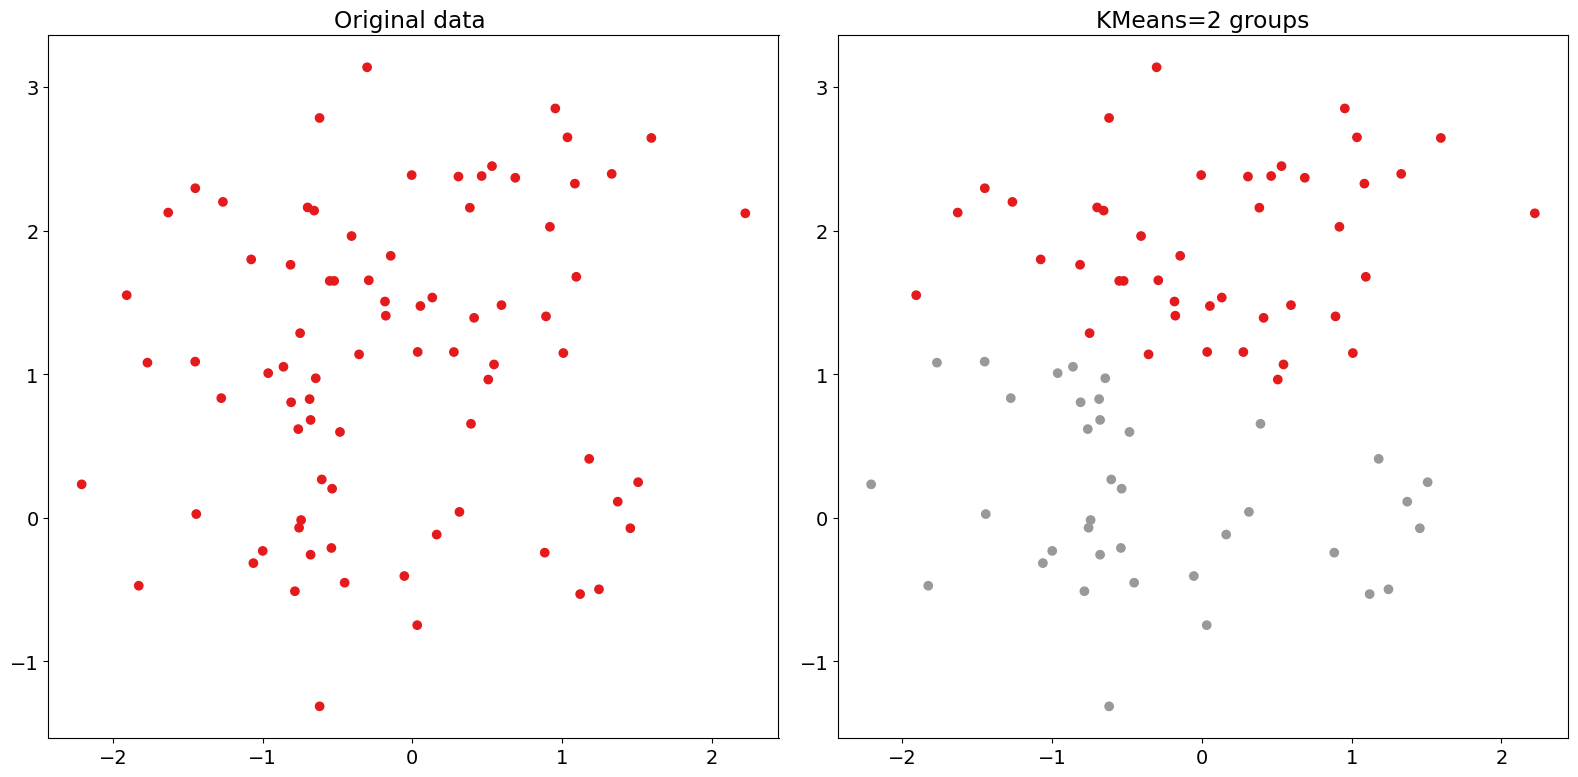
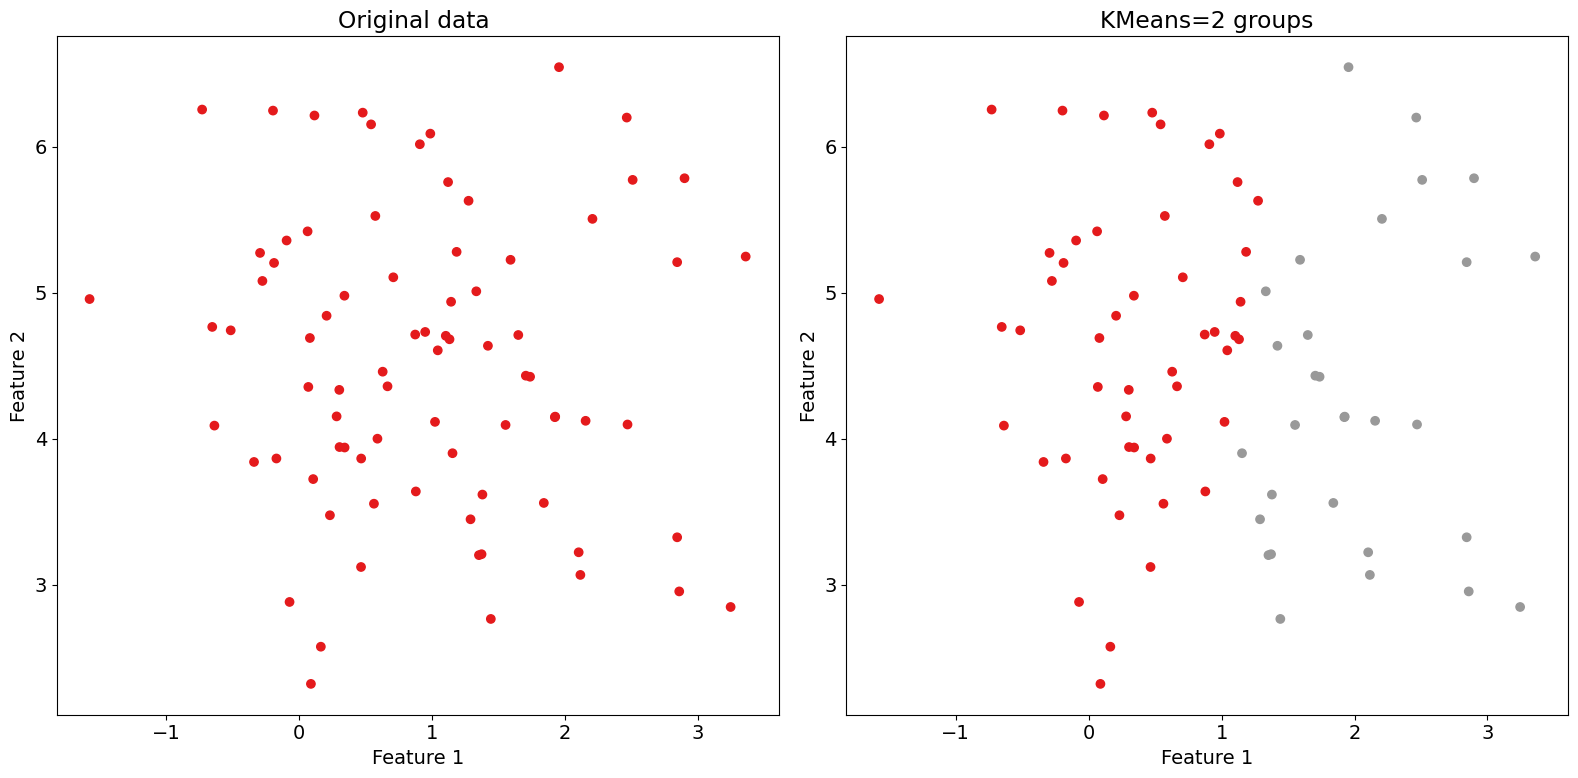
Fix random seeds and axis labels flagged in the report's known limitations
- Fix random_state / np.random.seed in 01_kmeans_blobs_demo.py,
  02_kmeans_iris.py and 01_knn_manual_shuffle_split.py so results are
  reproducible; add n_init=10 to match the other K-Means scripts
- Correct the y-axis label of 06_fisher_manual_histogram.py to Frequency
- Add axis labels to the subplots of 02_kmeans_iris.py and the blobs demo
- Update report sections 4, 5-1, 5-2, 6-6 to the new results and remove
  the three resolved known limitations

diff --git a/03_kmeans_clustering/02_kmeans_iris.py b/03_kmeans_clustering/02_kmeans_iris.py
@@ -33,7 +33,9 @@ dx = iris_dataset['data']
 dy = iris_dataset['target']
 # Use KMeans to find n clusters in the data
 # 用 KMeans 在資料中找出 n 個分組
-kmeans = KMeans(n_clusters=n1)
+# Fixed random_state so every run gives the same result
+# 固定 random_state，讓每次執行結果相同
+kmeans = KMeans(n_clusters=n1, n_init=10, random_state=0)
 kmeans.fit(dx)
 
 # Predict the new cluster labels
@@ -48,15 +50,19 @@ new_dy = kmeans.predict(dx)
 # 畫出原始的群資料
 
 plt.rcParams['font.size'] = 8
-plt.figure(figsize=(10,5))
+plt.figure(figsize=(10,7))
 
 plt.subplot(221)  # 2x2 grid, position 1 / 2 列 2 欄，目前位置為 1
 plt.title('Original Sepal length VS Sepal width')
 plt.scatter(dx.T[0], dx.T[1], c=dy, cmap=plt.cm.Set1)
+plt.xlabel('sepal length (cm)')
+plt.ylabel('sepal width (cm)')
 
 plt.subplot(222)  # 2x2 grid, position 2 / 2 列 2 欄，目前位置為 2
 plt.title('Original Sepal length VS Petal length')
 plt.scatter(dx.T[0], dx.T[2], c=dy, cmap=plt.cm.Set1)
+plt.xlabel('sepal length (cm)')
+plt.ylabel('petal length (cm)')
 
 
 # Plot the data colored by the n KMeans clusters
@@ -65,10 +71,14 @@ n1 = str(n1)
 plt.subplot(223)
 plt.title(n1 + ' groups Sepal length VS Sepal width')
 plt.scatter(dx.T[0], dx.T[1], c=new_dy, cmap=plt.cm.Set1)
+plt.xlabel('sepal length (cm)')
+plt.ylabel('sepal width (cm)')
 
 plt.subplot(224)
 plt.title(n1 + ' groups Sepal length VS Petal length')
 plt.scatter(dx.T[0], dx.T[2], c=new_dy, cmap=plt.cm.Set1)
+plt.xlabel('sepal length (cm)')
+plt.ylabel('petal length (cm)')
 
 
 

diff --git a/03_kmeans_clustering/01_kmeans_blobs_demo.py b/03_kmeans_clustering/01_kmeans_blobs_demo.py
@@ -21,11 +21,13 @@ print('將資料分為' ,n1,'群')
 # Generate a samples with b features in c groups (dy is the original label)
 # 隨機產生 c 組、b 個特徵的資料共 a 筆 (dy 即原始目標值 label)
 # dx, dy = make_blobs(n_samples=a, n_features=b, centers=c, shuffle='True')
-dx, dy = make_blobs(n_samples=80, n_features=2, centers=1, shuffle=True)
+# Fixed random_state so every run gives the same result
+# 固定 random_state，讓每次執行結果相同
+dx, dy = make_blobs(n_samples=80, n_features=2, centers=1, shuffle=True, random_state=0)
 
 # Use KMeans to find n clusters in the data
 # 用 KMeans 在資料中找出 n 個分組
-kmeans = KMeans(n_clusters=n1)
+kmeans = KMeans(n_clusters=n1, n_init=10, random_state=0)
 kmeans.fit(dx)
 
 # Predict the new cluster labels
@@ -38,6 +40,8 @@ plt.figure(figsize=(16, 8))
 # 畫出原始的群資料
 plt.subplot(121)
 plt.title('Original data ')
+plt.xlabel('Feature 1')
+plt.ylabel('Feature 2')
 plt.scatter(dx.T[0], dx.T[1], c=dy, cmap=plt.cm.Set1)
 
 # Plot the data colored by the n KMeans clusters
@@ -45,6 +49,8 @@ plt.scatter(dx.T[0], dx.T[1], c=dy, cmap=plt.cm.Set1)
 n1 = str(n1)
 plt.subplot(122)
 plt.title('KMeans=' + n1 + ' groups')
+plt.xlabel('Feature 1')
+plt.ylabel('Feature 2')
 plt.scatter(dx.T[0], dx.T[1], c=new_dy, cmap=plt.cm.Set1)
 
 # Show the figure

diff --git a/02_knn_classification/01_knn_manual_shuffle_split.py b/02_knn_classification/01_knn_manual_shuffle_split.py
@@ -19,8 +19,9 @@ Y = iris ['target']
 # Original order
 # 原始順序
 index = np.arange(150)
-# Shuffle randomly
-# 亂數打亂
+# Shuffle randomly, with a fixed seed so every run gives the same split
+# 亂數打亂，固定種子讓每次執行的切分都相同
+np.random.seed(0)
 np.random.shuffle(index)
 # The first 100 shuffled samples train the KNN, the last 50 test the model
 # 打亂後的前 100 筆用於 KNN 訓練，後 50 筆用於模型測試

diff --git a/04_fisher_lda/06_fisher_manual_histogram.py b/04_fisher_lda/06_fisher_manual_histogram.py
@@ -71,7 +71,7 @@ for i in range(3):
     plt.hist(x_fisher[y == i, 0], density=False, color='white',edgecolor = colors[i], cumulative = False, label = labels[i])
 
 plt.xlabel('Fisher Feature One')
-plt.ylabel('Fisher Feature Two')
+plt.ylabel('Frequency')
 plt.title('Fisher Features - Iris Dataset')
 plt.legend()
 

diff --git a/docs/Report.md b/docs/Report.md
@@ -110,7 +110,7 @@ Iris 資料集共 150 筆樣本，分為三個品種，每種 50 筆：
 
 | 程式 | 切分方式 | 結果 |
 |---|---|---|
-| `02_knn_classification/01_knn_manual_shuffle_split.py` | 手動亂數打亂，100 筆訓練 / 50 筆測試，k = 5 | 每次執行結果不同；本次 50 筆中錯 2 筆（約 96%），兩筆都是 versicolor 被誤判為 virginica |
+| `02_knn_classification/01_knn_manual_shuffle_split.py` | 手動亂數打亂（固定種子 0），100 筆訓練 / 50 筆測試，k = 5 | 50 筆中錯 2 筆（96%），兩筆都是 versicolor 被誤判為 virginica |
 | `02_knn_classification/02_knn_train_test_split.py` | `train_test_split`，`random_state=0`，k = 5 | 準確率 **0.98**；50 筆中錯 1 筆，是 versicolor 被誤判為 virginica |
 
 **解釋**
@@ -175,14 +175,14 @@ Iris 資料集共 150 筆樣本，分為三個品種，每種 50 筆：
 ![K-Means blobs 示範](figures/01_kmeans_blobs_demo_1.png)
 
 **座標軸**
-- 左右兩張子圖的 X 軸 = `make_blobs` 產生的第 1 個特徵，Y 軸 = 第 2 個特徵。這是人工資料，沒有單位與實際意義。
+- 左右兩張子圖的 X 軸 = Feature 1，Y 軸 = Feature 2，是 `make_blobs` 產生的兩個特徵。這是人工資料，沒有單位與實際意義。
 - 左圖顏色 = 產生資料時的原始標籤；右圖顏色 = K-Means 分出的群。
 
 **觀察與解釋**
 - 資料以 `centers=1` 產生，80 個點其實都來自同一群，所以左圖全部是同一個顏色。
-- 右圖中，K-Means 仍然依照 `n_clusters=2` 把資料切成兩群（本次約略是上半部與下半部）。
+- 右圖中，K-Means 仍然依照 `n_clusters=2` 把資料切成兩群，大約以 Feature 1 ≈ 1.3 為界分成左右兩半。
 - 這說明 **K-Means 一定會切出 k 群，不會判斷資料是否真的有 k 群**，因此 k 必須另外決定，例如用第 5-3 節的手肘法。
-- 程式沒有固定亂數種子，每次執行的資料點與切法都不同。
+- 程式固定 `random_state=0`，每次執行的資料點與切法都相同。若拿掉種子，每次產生的資料不同，切開的方向也會跟著改變，但一定還是切成 2 群。
 
 ### 圖 5-2　Iris K-Means 分群（k = 8）與原始標籤對照
 
@@ -202,10 +202,14 @@ Iris 資料集共 150 筆樣本，分為三個品種，每種 50 筆：
 上排配色：紅 = setosa、橘 = versicolor、灰 = virginica。下排 8 種顏色只是群編號，與上排顏色沒有對應關係。
 
 **觀察與解釋**
-- 程式設定 `n1 = 8`，比實際的 3 個品種多，因此每個品種都被切成好幾群。例如右下圖中，setosa（右上圖左下角那團）被分成藍、黃等數群。
+- 程式設定 `n1 = 8`，比實際的 3 個品種多，因此每個品種都被切成好幾群：
+  - **setosa**：依花萼長度切成 2 群，黃色 22 筆（4.3–5.0 cm）、藍色 28 筆。
+  - **versicolor**：主要分成 2 群（23、20 筆），另有 4 筆花萼特別短的樣本自成灰色小群。
+  - **virginica**：切成 3 群（22、12、15 筆），其中花萼最長的 12 筆是紫色那群。
+- 8 群中只有 2 群混了不同品種，合計 4 筆，所以每一群幾乎都只含單一品種。k 太大時，K-Means 會把同一品種內部再細分，而不是把不同品種混在一起。
 - K-Means 用 4 個特徵計算距離，但圖只畫出其中 2 個，所以有些顏色在圖上看起來交錯，在 4 維空間中其實是分開的。
 - 右欄（花萼長度 vs 花瓣長度）比左欄更容易看出群的結構，因為花瓣長度的鑑別力較高。
-- 程式沒有固定亂數種子，每次執行的群編號與切法都會不同。
+- 程式固定 `random_state=0` 並用 `n_init=10` 跑 10 次取最佳結果，每次執行結果相同。
 
 ### 圖 5-3　手肘法（4 個特徵）
 
@@ -301,7 +305,7 @@ Iris 資料集共 150 筆樣本，分為三個品種，每種 50 筆：
 
 整理圖 5-1 到 5-6 的結果：
 
-- **初始中心點會影響結果。** 沒有固定亂數種子的程式（圖 5-1、5-2）每次執行，邊界與極值附近的點常被分到不同群；固定 `random_state` 並用 `n_init=10` 跑多次後（圖 5-5、5-6），結果穩定且可重現。
+- **初始中心點會影響結果。** 如果不固定亂數種子，每次執行時邊界與極值附近的點常被分到不同群。本專案所有 K-Means 程式都固定 `random_state=0`，並用 `n_init=10` 以不同初始中心跑 10 次、取 SSE 最小的結果，因此結果穩定且可重現。
 - **特徵的鑑別力決定分群品質。** 同樣 k = 3，花瓣特徵純度 96%，花萼特徵 82%，使用全部 4 個特徵則為 89.3%。加入鑑別力差的花萼特徵，反而會拉低純度。
 - **極值的影響比預期小。** K-Means 以平均值作為中心，理論上容易被極值拉偏；但 Iris 的極值不多，k = 3 時花瓣分群的 6 個錯誤都在 versicolor 與 virginica 的交界，不是遠離群體的極值造成的。
 - **最佳 k 要結合多種方法判斷。** 手肘法（k = 2–3）與輪廓分析（k = 2）都沒有直接得到 3。若事先知道類別數，應以實際需求為準；若不知道，k = 2 是資料本身最明顯的結構。
@@ -407,7 +411,7 @@ Iris 有 3 類，所以最多只能得到 3 − 1 = 2 個判別軸：
 
 **座標軸**
 - X 軸 = Fisher Feature One：用 numpy 手動計算 inv(Sw) · Sb 的最大特徵向量，把資料投影上去後再取負值（無單位）。
-- Y 軸 = 每個區間的樣本數。**注意：圖上的 Y 軸標籤寫「Fisher Feature Two」，這是錯的，實際上是次數。**
+- Y 軸 = Frequency：落在該區間的樣本數。
 - 空心長條顏色：藍 = Setosa、紅 = Versicolor、綠 = Virginica。
 
 **觀察與解釋**
@@ -612,9 +616,6 @@ PC1 主要由花瓣長度構成，因為花瓣長度的數值範圍最大（1–
 
 ## 10. 已知限制
 
-- **部分結果每次執行都不同。** `01_kmeans_blobs_demo.py`、`02_kmeans_iris.py`、`01_knn_manual_shuffle_split.py` 沒有固定亂數種子，重新執行後的圖與數字會與本報告不同。
-- **`06_fisher_manual_histogram.py` 的 Y 軸標籤有誤。** 標籤寫「Fisher Feature Two」，實際上是次數 (Frequency)。
-- **`02_kmeans_iris.py` 的子圖沒有軸標籤。** 軸的意義請參考第 5-2 節的表格。
 - **第 6 節 LDA 的 98% 是在全部 150 筆資料上訓練並評估的。** 改用 10-fold 交叉驗證後（第 7 節）仍為 98%，表示 LDA 在 Iris 上沒有過擬合。
 - **決策邊界圖只用 2 個特徵。** 第 9 節為了能畫在平面上只用花瓣長度與寬度，準確率與用 4 個特徵的結果（第 4、7 節）不能直接比較。
 - **純度不是分群的標準評估指標。** 第 5-5 節的純度需要用到真實標籤，k 越大通常越高（極端情況下每點一群時為 100%），只適合在相同 k 之下比較不同特徵。

diff --git a/Readme.md b/Readme.md
@@ -41,7 +41,7 @@ iris-ml-analysis/
 
 | 程式 | 功能 | 輸出 |
 |---|---|---|
-| `01_knn_manual_shuffle_split.py` | 用 numpy 手動打亂資料，前 100 筆訓練、後 50 筆測試，以 k=5 的 KNN 預測並印出預測值與實際值 | 文字 (每次結果不同) |
+| `01_knn_manual_shuffle_split.py` | 用 numpy 手動打亂資料，前 100 筆訓練、後 50 筆測試，以 k=5 的 KNN 預測並印出預測值與實際值 (固定亂數種子) | 文字 |
 | `02_knn_train_test_split.py` | 用 `train_test_split` (random_state=0) 切分，以 KNN 預測並計算準確率 (0.98) | 文字 |
 | `03_knn_cross_validation.py` | 以重複分層 10-fold 交叉驗證 (10 折 × 10 次) 比較 k=1–30 的訓練與驗證準確率，找出最佳 k (17) 並觀察過擬合/欠擬合 | 文字 + 1 張圖 |
 
@@ -51,8 +51,8 @@ iris-ml-analysis/
 
 | 程式 | 功能 | 輸出 |
 |---|---|---|
-| `01_kmeans_blobs_demo.py` | 以 `make_blobs` 產生單一群的隨機資料，示範 K-Means 仍會切成 k 群 | 1 張圖 (每次不同) |
-| `02_kmeans_iris.py` | 對 Iris 做 K-Means (k=8)，以 2×2 子圖對照原始品種與分群結果 | 1 張圖 (每次不同) |
+| `01_kmeans_blobs_demo.py` | 以 `make_blobs` 產生單一群的隨機資料，示範 K-Means 仍會切成 k 群 | 1 張圖 |
+| `02_kmeans_iris.py` | 對 Iris 做 K-Means (k=8)，以 2×2 子圖對照原始品種與分群結果 | 1 張圖 |
 | `03_elbow_sse_iris.py` | 手肘法：用全部 4 個特徵計算 k=1–8 的 SSE，找出合適的 k | 1 張圖 |
 | `04_elbow_sse_from_csv.py` | 手肘法：讀取 `data/iris.csv`，只用 sepal length 計算 k=1–8 的 SSE | 1 張圖 |
 | `05_kmeans_compare_k.py` | 比較 k = 2、3、4、6、8 的分群結果：只用花萼特徵 vs 只用花瓣特徵，並印出各自的純度 | 文字 + 1 張圖 |
